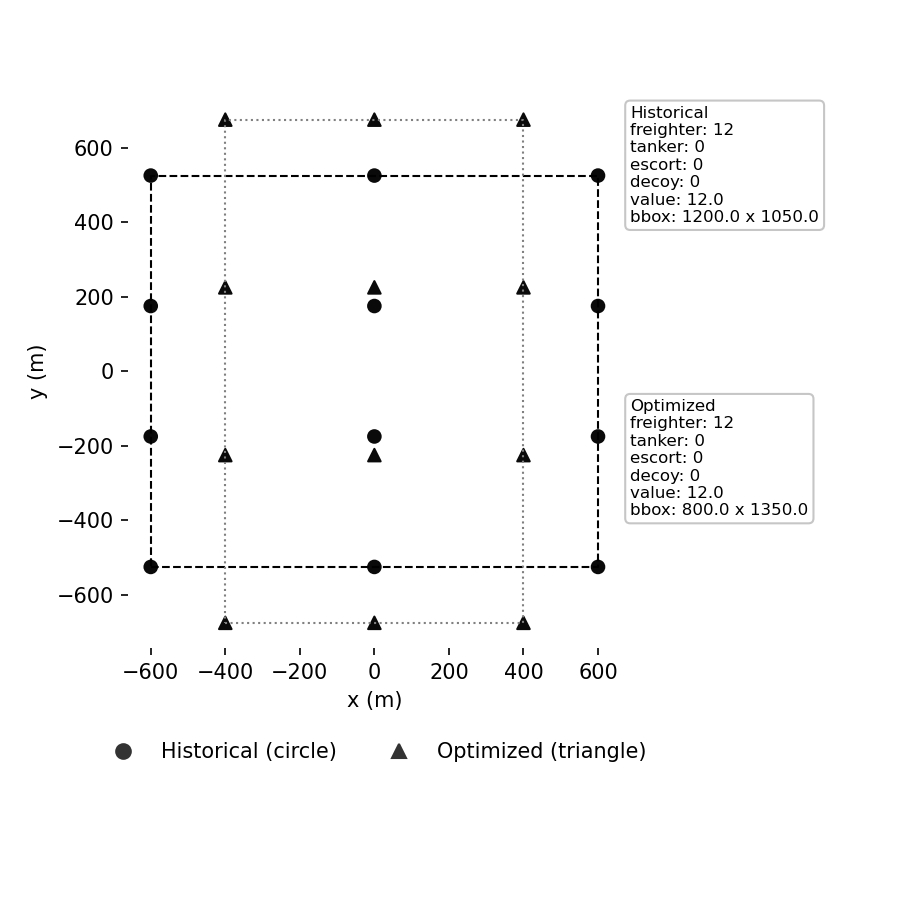
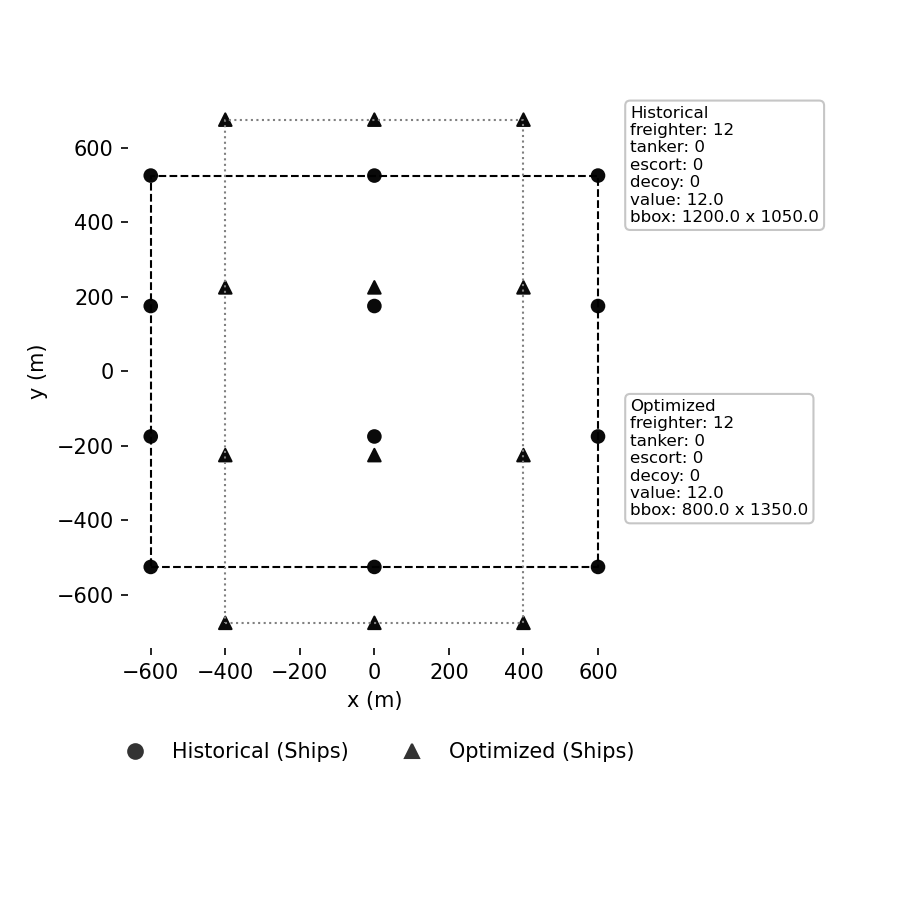
Fixing Visuals (#6)

diff --git a/convoy_sim/viz_attack.py b/convoy_sim/viz_attack.py
@@ -12,6 +12,7 @@ from .entities import Ship, Torpedo
 from .geometry import as_vec, closest_approach_time, distance, step_position
 from .viz import plot_convoy_planview
 from .dynamics import ConvoyFormation, ConvoyKinematics, ship_positions_at
+from .simulation import DynamicHitState, advance_dynamic_hit_state, init_dynamic_hit_state
 
 
 def torpedo_segment(
@@ -207,7 +208,8 @@ def render_attack_frame(
     legend_bbox_to_anchor: tuple[float, float] | None = None,
     view_bounds: tuple[float, float, float, float] | None = None,
     hide_spines: bool = True,
-    hit_cache: set[str] | None = None,
+    hit_state: DynamicHitState | None = None,
+    hit_dt: float | None = None,
 ) -> Any:
     """Render a single time frame of a static/dynamic attack."""
 
@@ -255,11 +257,27 @@ def render_attack_frame(
                 frameon=False,
             )
 
+    if dynamics is not None and hit_state is not None and hit_dt is not None:
+        formation, kin = dynamics
+        advance_dynamic_hit_state(
+            formation,
+            kin,
+            torpedoes,
+            t_global,
+            hit_dt,
+            hit_state,
+            max_hits_per_torpedo=1,
+        )
+
     for torpedo in torpedoes:
         if t_global < torpedo.launch_delay:
             continue
         t_end = min(float(t_max), float(t_global))
         t_start = max(0.0, t_end - float(trail_length_s)) if show_trails else t_end
+        if hit_state is not None and torpedo.id in hit_state.torpedo_hit_times:
+            t_end = min(t_end, float(hit_state.torpedo_hit_times[torpedo.id]))
+            if t_end <= t_start:
+                continue
         p0 = torpedo_position_at_global_time(torpedo, t_start)
         p1 = torpedo_position_at_global_time(torpedo, t_end)
         ax.plot(
@@ -270,7 +288,20 @@ def render_attack_frame(
             alpha=0.7,
         )
 
-    hit_ids = hit_cache if hit_cache is not None else set()
+    hit_colors = ["#ffd0d0", "#ff9b9b", "#ff6666", "#d7191c"]
+    for ship in ships:
+        if hit_state is not None and ship.id in hit_state.hit_counts:
+            count = int(hit_state.hit_counts.get(ship.id, 0))
+            color_idx = min(max(count, 1), len(hit_colors)) - 1
+            ax.scatter(
+                ship.position[0],
+                ship.position[1],
+                s=140.0,
+                facecolors="none",
+                edgecolors=hit_colors[color_idx],
+                linewidths=2.0,
+                zorder=5,
+            )
     if view_bounds is not None:
         xmin, xmax, ymin, ymax = view_bounds
         ax.set_xlim(float(xmin), float(xmax))
@@ -306,7 +337,7 @@ def save_attack_frames(
     dt = 1.0 / float(fps)
     times = np.arange(float(t_start), float(t_end) + 1e-9, dt)
     paths: list[str] = []
-    hit_cache: set[str] = set()
+    hit_state = init_dynamic_hit_state(t_start)
     for idx, t in enumerate(times):
         fig, ax = plt.subplots(figsize=(6, 6))
         render_attack_frame(
@@ -316,7 +347,8 @@ def save_attack_frames(
             t_max=float(t_end),
             dynamics=dynamics,
             ax=ax,
-            hit_cache=hit_cache,
+            hit_state=hit_state,
+            hit_dt=dt,
             **kwargs,
         )
         fig.tight_layout()
@@ -352,7 +384,7 @@ def save_attack_animation_mp4(
     dt = 1.0 / float(fps)
     times = np.arange(float(t_start), float(t_end) + 1e-9, dt)
     fig, ax = plt.subplots(figsize=(6, 6))
-    hit_cache: set[str] = set()
+    hit_state = init_dynamic_hit_state(t_start)
 
     def _update(frame_idx: int):
         ax.clear()
@@ -364,7 +396,8 @@ def save_attack_animation_mp4(
             t_max=float(t_end),
             dynamics=dynamics,
             ax=ax,
-            hit_cache=hit_cache,
+            hit_state=hit_state,
+            hit_dt=dt,
             **kwargs,
         )
         return ax
@@ -382,24 +415,3 @@ def save_attack_debug_json(path: str, metrics: dict[str, Any]) -> str:
     with open(path, "w", encoding="utf-8") as handle:
         json.dump(metrics, handle, indent=2)
     return path
-    hit_ids = hit_cache if hit_cache is not None else set()
-    for ship in ships:
-        for torpedo in torpedoes:
-            if t_global < torpedo.launch_delay:
-                continue
-            torp_pos = torpedo.position_at(float(t_global))
-            if distance(ship.position, torp_pos) <= ship.effective_hit_radius():
-                hit_ids.add(ship.id)
-                break
-
-    for ship in ships:
-        if ship.id in hit_ids:
-            ax.scatter(
-                ship.position[0],
-                ship.position[1],
-                s=120.0,
-                facecolors="none",
-                edgecolors="red",
-                linewidths=1.5,
-                zorder=5,
-            )

diff --git a/convoy_sim/simulation.py b/convoy_sim/simulation.py
@@ -2,7 +2,7 @@
 
 from __future__ import annotations
 
-from dataclasses import replace
+from dataclasses import dataclass, replace
 import math
 from typing import Any, Callable, Sequence
 
@@ -507,6 +507,76 @@ def _earliest_hit_time(ship: Ship, torpedo: Torpedo, t_max: float) -> float | No
             earliest = candidate if earliest is None else min(earliest, candidate)
 
     return earliest
+
+
+@dataclass
+class DynamicHitState:
+    """Mutable hit state for stepping dynamic torpedo/convoy interactions."""
+
+    time: float
+    hit_pairs: set[tuple[int, int]]
+    torpedo_done: set[int]
+    hit_counts: dict[str, int]
+    torpedo_hit_times: dict[str, float]
+
+
+def init_dynamic_hit_state(start_time: float = 0.0) -> DynamicHitState:
+    """Initialize hit state for dynamic stepping."""
+
+    return DynamicHitState(
+        time=float(start_time),
+        hit_pairs=set(),
+        torpedo_done=set(),
+        hit_counts={},
+        torpedo_hit_times={},
+    )
+
+
+def advance_dynamic_hit_state(
+    formation: ConvoyFormation,
+    kin: ConvoyKinematics,
+    torpedoes: Sequence[Torpedo],
+    t_target: float,
+    dt: float,
+    state: DynamicHitState,
+    *,
+    safety_margin: float = 0.0,
+    max_hits_per_torpedo: int | None = 1,
+) -> DynamicHitState:
+    """Advance hit state up to ``t_target`` using the same stepping logic as simulation."""
+
+    if dt <= 0.0:
+        raise ValueError("dt must be positive")
+    time = float(state.time)
+    t_target = float(t_target)
+    if t_target < time:
+        state.time = t_target
+        return state
+    while time <= t_target + 1e-9:
+        ship_positions = ship_positions_at(time, formation, kin, dt=dt)
+        for torp_idx, torpedo in enumerate(torpedoes):
+            if torpedo.is_dud:
+                continue
+            if torp_idx in state.torpedo_done:
+                continue
+            if time < torpedo.launch_delay:
+                continue
+            torp_pos = torpedo.position_at(time)
+            for ship_idx, ship in enumerate(formation.ships0):
+                key = (torp_idx, ship_idx)
+                if key in state.hit_pairs:
+                    continue
+                radius = ship.effective_hit_radius() + float(safety_margin)
+                if distance(ship_positions[ship_idx], torp_pos) <= radius:
+                    state.hit_pairs.add(key)
+                    state.hit_counts[ship.id] = int(state.hit_counts.get(ship.id, 0)) + 1
+                    state.torpedo_hit_times.setdefault(torpedo.id, time)
+                    if max_hits_per_torpedo == 1:
+                        state.torpedo_done.add(torp_idx)
+                    break
+        time += dt
+    state.time = t_target
+    return state
 
 
 def sample_torpedo_spread_fixed_origin(

diff --git a/experiments/plot_historical_vs_optimized.py b/experiments/plot_historical_vs_optimized.py
@@ -38,7 +38,7 @@ def main() -> None:
         optimized_kwargs = dict(base_kwargs)
         optimized_kwargs.update(optimized_params)
         optimized = make_rectangular_convoy(**optimized_kwargs)
-        optimized_label = "Optimized (rect)"
+        optimized_label = "Optimized"
     else:
         optimized_kwargs = dict(base_kwargs)
         optimized_kwargs["spacing_across"] = float(base_kwargs["spacing_across"]) * 1.4
@@ -64,7 +64,7 @@ def main() -> None:
             markersize=7,
             markerfacecolor="0.2",
             markeredgecolor="0.2",
-            label="Historical (circle)",
+            label="Historical (Ships)",
         ),
         Line2D(
             [0],
@@ -74,7 +74,7 @@ def main() -> None:
             markersize=7,
             markerfacecolor="0.2",
             markeredgecolor="0.2",
-            label="Optimized (triangle)",
+            label="Optimized (Ships)",
         ),
     ]
     overlay_ax.legend(

diff --git a/experiments/render_attack_animation.py b/experiments/render_attack_animation.py
@@ -45,9 +45,9 @@ def main() -> None:
     kin = ConvoyKinematics(route=route, zigzag=zigzag)
 
     torpedoes = fan_spread(
-        u_pos=as_vec(1500.0, 0.0), # Submarine Position 
-        base_bearing_rad=np.radians(180), # Launch Radian 0.0 = due east np.radians(180) = due west
-        n=5, #Number of torpedos
+        u_pos=as_vec(0, -1250), # Submarine Position 
+        base_bearing_rad=np.radians(80), # Launch Radian 0.0 = due east np.radians(180) = due west
+        n=4, #Number of torpedos (Typically 4 was max slavo size)
         spread_rad=np.radians(10.0), #Torpedo Spread (ex 10 at launch degree goes -5, 0, 5)
         speed=20.0, # Torpedo Speed
         max_run_time=200.0, 

diff --git a/NOTES.md b/NOTES.md
@@ -8,33 +8,15 @@ Value:
     -Decoy value_weight = 
     -
 
-Awesome, great.
-
-Now: render_attack_animation.py
-
-Fixes:
--Vastly expand the blue area so more of the sim can be seen. Right now it is a skinny rectangle. Essentially zoom out more
--Move the legend down so it does not overlap with the x axis label
--Add: for spine in plt.gca().spines.values(): spine.set_visible(False)
--If possible add the dynamic ship markers (the ships in this viz are not moving up but rather upper left ish)
--Can we increase the size of the convoy, Right now it is only three ships. Maybe make it similar to the historical layout?
--Remove black grid lines around the convoy
--Make torpedo lines red instead of grey
-
-
-Update Static Example to:
-- Make ships red instead of circles when hit
--Center the plot right, now it is pushed right due to axis labels
 
 
 
 
 
-
-
-
-
-
+Back To: render_attack_animation.py
+-Either the hit recognization is wrong or ships are way out of scale as torpedos appear to pass through the middle of ships but no red circle indicating hits appear. Again I want the circle to appear in all remaining frames to know which ships were hit.
+-Also perhaps the red circle can also change colors indicating number of hits. Start with a light red and get darker. Have four shades of red for this. 
+-Also to confirm a torpedo can only hit a ship once correct? If so ideally once it hits a torpedo, the red line stops as to indicate a hit
 
 
 
